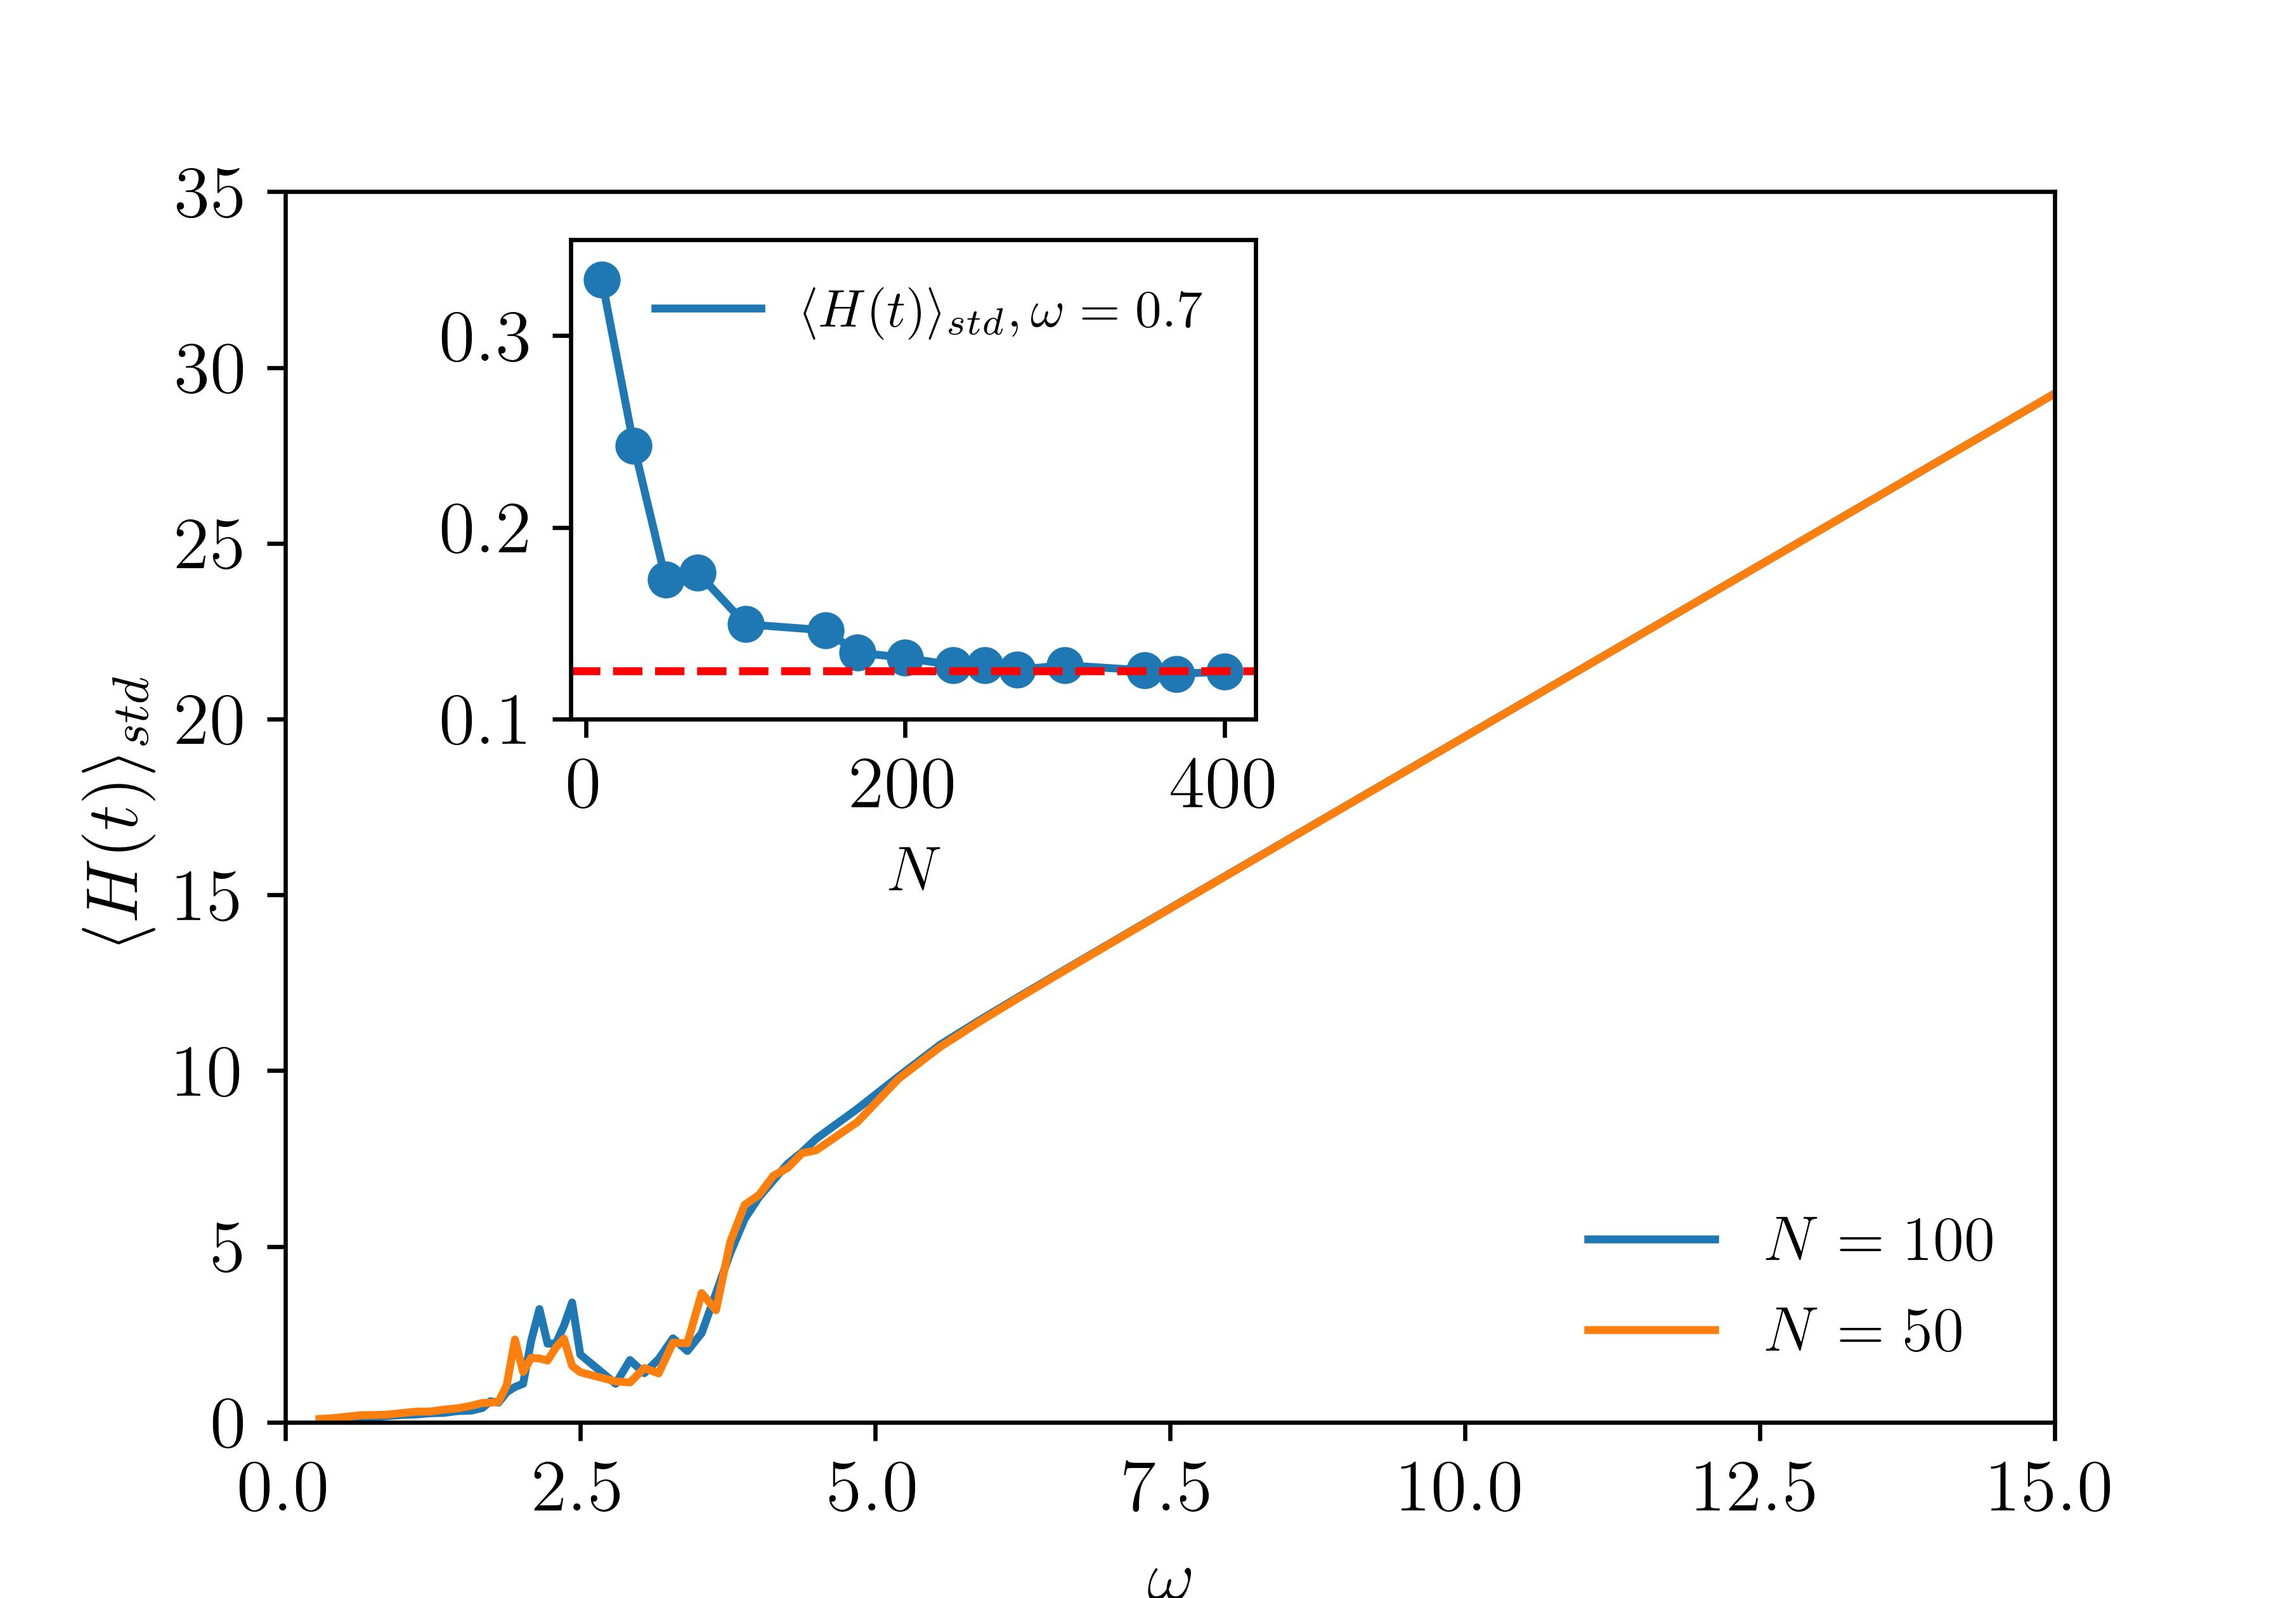
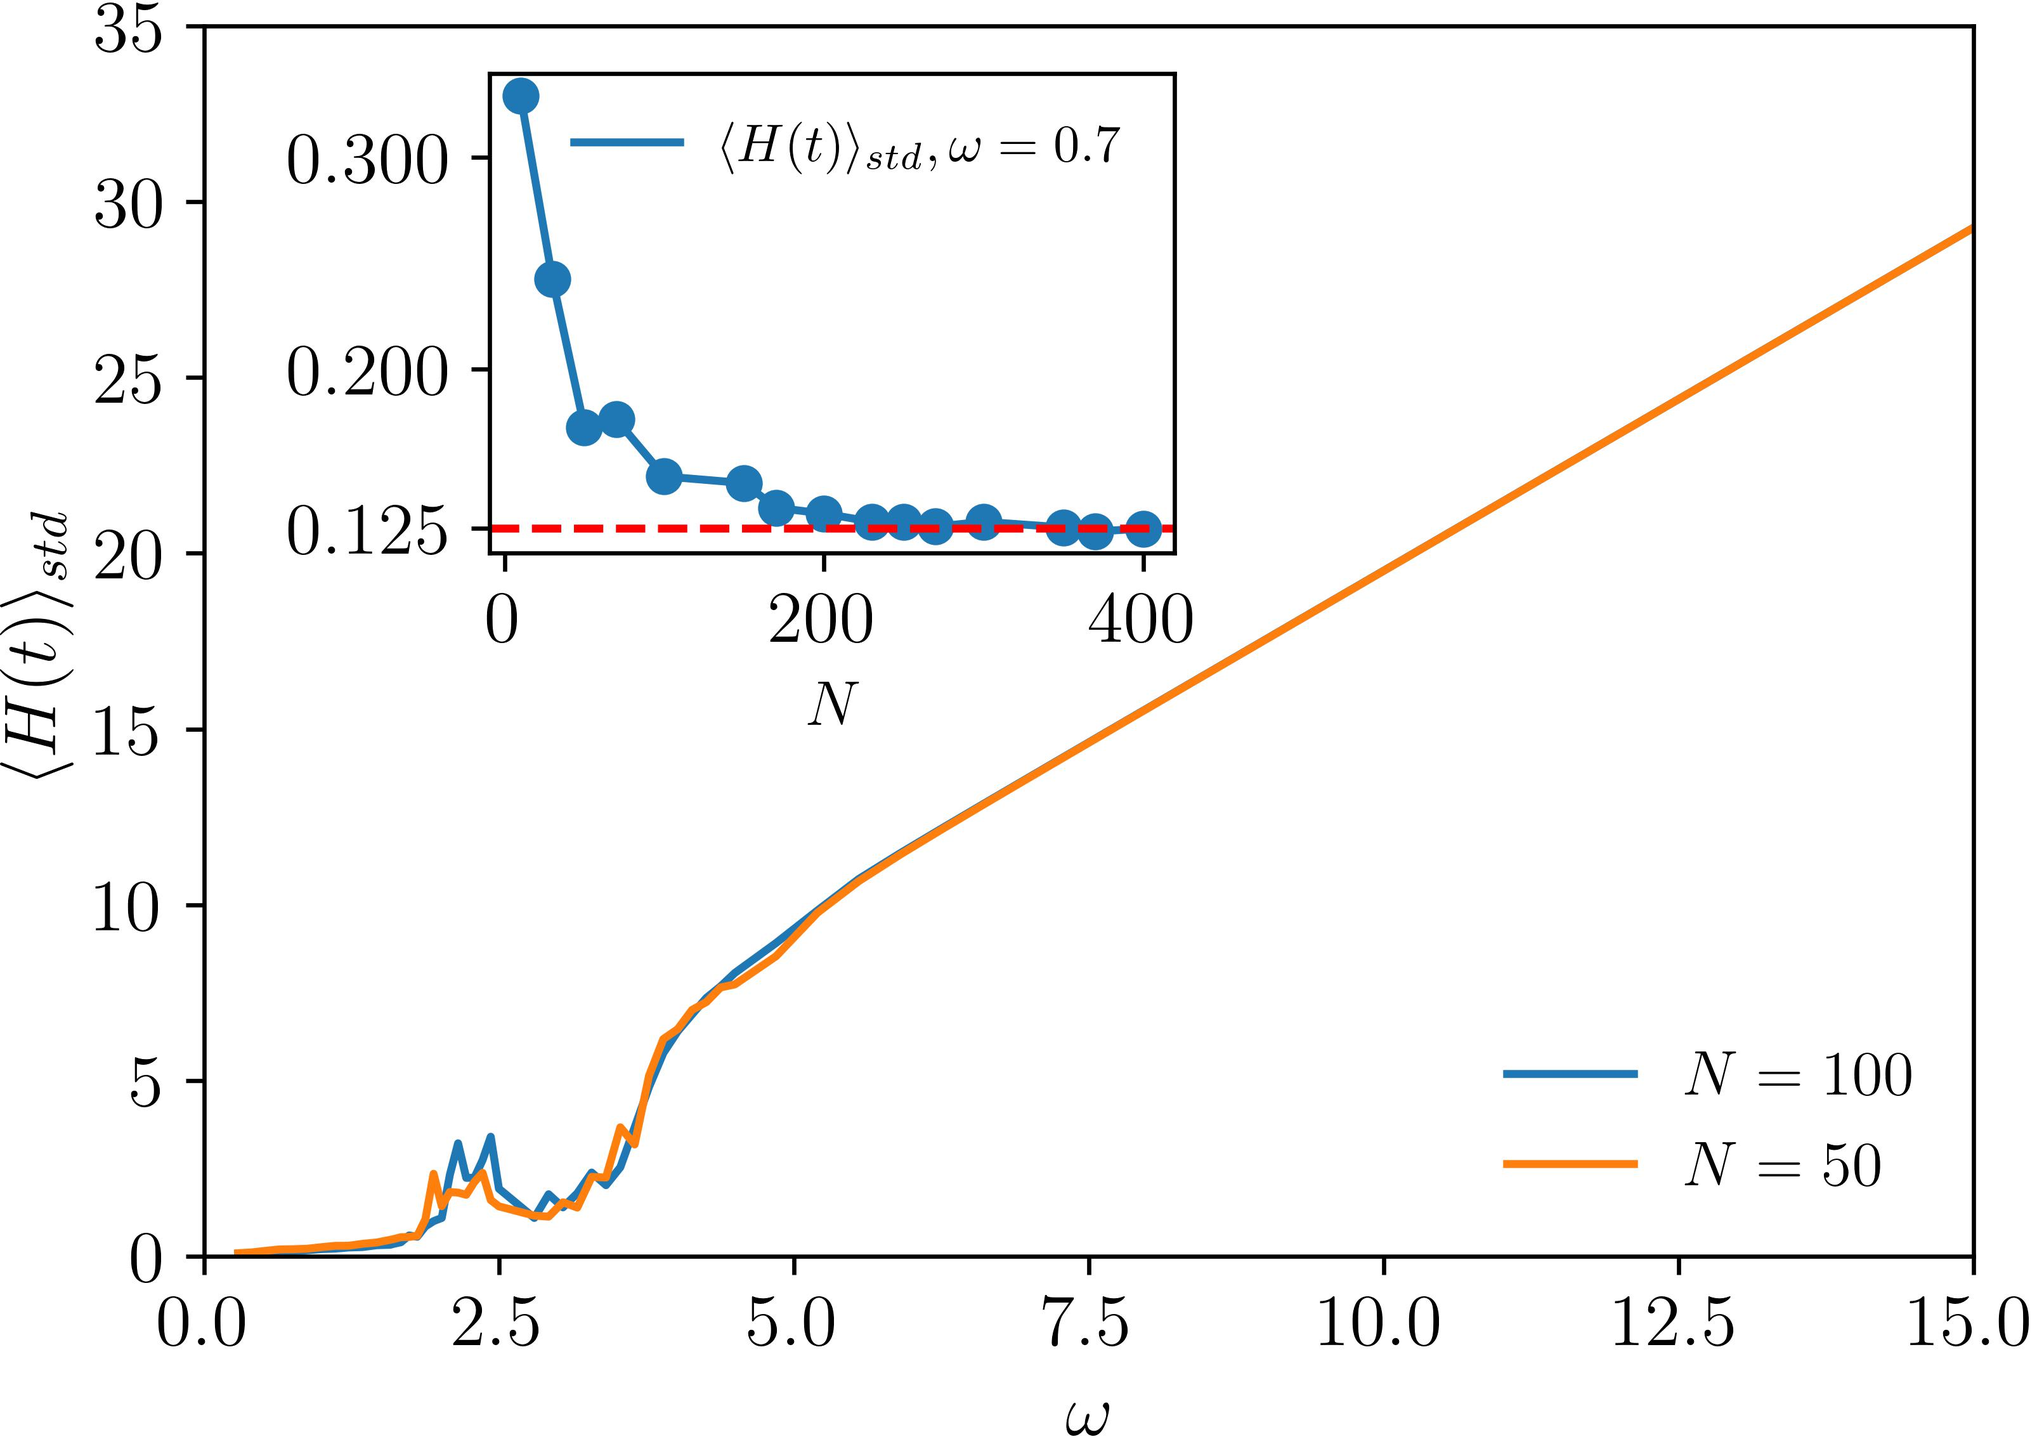
working

diff --git a/Long_Range_LMG_Manuscript/main.tex b/Long_Range_LMG_Manuscript/main.tex
@@ -26,7 +26,9 @@ showkeys,
 \usepackage[sort&compress]{natbib}
 \usepackage{hyperref}
 
-
+\usepackage{color}
+\newcommand{\blue}[1]{\textcolor{blue}{#1}}
+\usepackage{soul}
 
 
 \begin{document}
@@ -164,7 +166,19 @@ In the frequency regime  $\omega \gg f_k$, the long-time average $H^{RWA}\equiv\
 \end{equation}
 It is evident that by manipulating the drive parameters, specifically the amplitude denoted by $h$ and the frequency denoted by $\omega$, in a manner such that $\eta$ is positioned on a root of $J_0(\eta)$, the fermion number can be conserved to a significant extent at this particular resonance. Consequently, it is feasible to exercise direct control over $H^{RWA}$, resulting in a comprehensive suppression of the dynamics of otherwise responsive observables. 
 
-This phenomenon is highly general in nature, and can be readily adapted to non-integrable systems. In such cases, freezing has the additional effect of inducing DMBL, suppressing thermalization to infinite temperatures. Numerical quantification of localization of a specific (quasi) stationary state in a physically significant representation can be achieved through the computation of the \emph{Inverse Participation Ratio} (IPR).  {The IPR is generally defined as the formal sum over the square of the local density in a physically meaningful space.}~\cite{mukherjee_modulation-assisted_2015,lin_many-body_2018,murphy_generalized_2011, torres-herrera_self-averaging_2020} {In the single particle case,  the IPR, } for a state $\ket{\psi}$ can be written as
+This phenomenon is \blue{fairly} general in nature, and can be readily adapted to \blue{some} non-integrable systems \blue{particularly after addition of integrability fields or in the presence of long range interactions. For instance, if we apply integrability field,} 
+\begin{equation}
+\hat{\mathcal{H}}(t) =\frac{1}{2}\left[\sum_{i} J \hat{\sigma}_{i}^{x} \hat{\sigma}_{i+1}^{x}+h \cos (\omega t) \sum_{i} \hat{\sigma}_{i}^{z}+\sum_{i} \hat{\sigma}_{i}^{x}\right]
+\label{eq:tfim_sx}
+\end{equation}	
+RWA reduces Eq.\eqref{eq:tfim_sx} to,
+\begin{multline}
+	\hat{\mathcal{H}}_{_{TFIM+S_{x}}}^{R W A}=\frac{J}{2} \mathcal{J}_0\left(\frac{2h}{\omega}\right)\sum_{i}\Bigg[\left\{1+ \mathcal{J}_0\left(\frac{2h}{\omega}\right)\right\} \hat{\sigma}_{i}^{x} \hat{\sigma}_{i+1}^{x}\\ + \hat{\sigma}^y_i\hat{\sigma}^y_{i+1}\left\{1- \mathcal{J}_0\left(\frac{2h}{\omega}\right)\right\} \Bigg]\\ +\mathcal{J}_{0}\left(\frac{h}{\omega}\right) \frac12\sum_i\hat{\sigma}^x_i
+	\label{eq:tfim_sx1}
+\end{multline}
+\blue{If drive parameters $h$ and $\omega$ are controlled such a way that $\left(\frac{2h}{\omega}\right)$ lies at one of the roots of Bessel function, then the first part of Eq.\eqref{eq:tfim_sx1} vanishes yet the second term survives. The second term consists of non interacting spins for which FETH-IPR can be localized along set of  basis vector corresponding to spin-spin interaction. However if we add additional spin-spin interactions, then this phenomenon can not be replicated, as an example in XXZ model.} 
+
+In such \blue{non integrable} cases, freezing has the additional effect of inducing DMBL, suppressing thermalization to infinite temperatures. Numerical quantification of localization of a specific (quasi) stationary state in a physically significant representation can be achieved through the computation of the \emph{Inverse Participation Ratio} (IPR).  {The IPR is generally defined as the formal sum over the square of the local density in a physically meaningful space.}~\cite{mukherjee_modulation-assisted_2015,lin_many-body_2018,murphy_generalized_2011, torres-herrera_self-averaging_2020} {In the single particle case,  the IPR, } for a state $\ket{\psi}$ can be written as
 \begin{equation*}
 	\phi_{IPR}\equiv \int \mathrm{d}\mathbf{x}\;\vert\ip{\mathbf{x}}{\psi}\vert^4.
 \end{equation*}
@@ -333,14 +347,14 @@ To demonstrate this, we investigate the IPR of the  Floquet mode with smallest q
 for numerous frequencies and system sizes, along with the associated drive amplitude $h$ keeping the system at a localization point. The results are shown in fig~\ref{fig:phase_crossover}. In the low-frequency range $\omega \in \left[1.0, 9.0\right]$, the IPR exhibits values well below unity.   {Moreover, as can be seen in the bottom panel of the same figure, when the dynamics is simulated for smaller} $\omega$s, {the fall of} $\phi_{IPR}(N)$ {asymptotically approaches one that characterizes a fully thermal state, where} $\phi_{IPR}(N)\sim 1/N$ {in the TSS. } In the limit  $N\rightarrow\infty$, the inverse participation ratio (IPR) tends towards zero, indicating a fully de-localized state.  {Contrast this with the IPR plots shown in the bottom left panel of fig}~\ref{fig:ipr:isinglowfrk} {for the integrable TFIM}.  {The top panel of fig.}~\ref{fig:phase_crossover} {also reveals} a gradual increase {in the unity} {towards unity} of IPR over a certain frequency range, specifically at $\omega \approx 5$. In addition, the rise does not cross with those for different values of $N$, suggesting the onset of a phase crossover~\cite{sierant_2023, sachdev_quantum_2011}. As the size of the system increases, the crossover region becomes smoother, rather than sharper.
 \begin{figure}[t!]
 	\centering
-	\includegraphics[width =8.5cm]{phase_crossover_LMG.jpeg}
+	\includegraphics[width =8.5cm]{phase_crossover_LMG1.jpeg}
 	\caption{{In the top panel, the IPR of the lowest quasienergy Floquet state is plotted as a function of} $\omega$ {for different} $N$s,{ with amplitude $h$ adjusted to ensure that} $J_0(\eta)=0$ {always. The smooth rise in IPR defines a phase crossover (top panel) between a fully thermal phase to a fully localized phase. The bottom panel plots the IPR versus} $N$ {for small} $\omega$s, {also with} $h$ {adjusted. The curves asymptotically approach the dependency} $\phi_{IPR}\sim 1/N${, indicating thermalization at low-}$\omega$.}
 	\label{fig:phase_crossover}
 \end{figure}
 \begin{figure}[!ht]
 \centering
 \includegraphics[width = 9.cm]{hbar_avg_std.jpeg}
-\caption{The standard deviation of the heating rate, denoted by $\expval{H}_{std}$, calculated over a span of $t=500 T$ for two system sizes. Here, $h$ is varied to keep $\eta = 4h/\omega$ at the first root of $J_0(\eta)$. A nonsingular rise has been identified at $\omega \approx 4.0$. $\expval{H}_{std}$ exhibits a diminutive magnitude below that value of $\omega$, while a linear rise is observed at higher frequencies, consistent with freezing. A vanishingly small standard deviation for $\omega \ll 4.0$ indicates the presence of a thermal region, whereas a larger finite standard deviation suggests the existence of athermal behaviour. The small peaks observed at $\omega\in [2, 4)$ are finite-size effects that disappear in the thermodynamic limit.}
+\caption{The standard deviation of the heating rate, denoted by $\expval{H}_{std}$, calculated over a span of $t=500 T$ for two system sizes. Here, $h$ is varied to keep $\eta = 4h/\omega$ at the first root of $J_0(\eta)$. A nonsingular rise has been identified at $\omega \approx 4.0$. $\expval{H}_{std}$ exhibits a diminutive magnitude below that value of $\omega$, while a linear rise is observed at higher frequencies, consistent with freezing. A small standard deviation \blue{(= 0.125)} for $\omega \ll 4.0$ indicates the presence of a thermal region, whereas a larger finite standard deviation suggests the existence of athermal behaviour. The small peaks observed at $\omega\in [2, 4)$ are finite-size effects that disappear in the thermodynamic limit. \blue{In the inset, $\expval{H}_{std}$ is studied at low frequency ($\omega=0.7$) for a set of system sizes and at the thermodynamic limit, $\expval{H}_{std} = 0.125$ is found to corroborate}.}
 \label{fig:havg_std}
 \end{figure}
 

diff --git a/dmbl_for_referee_etc/author_responses/BH14505_dmbl.tex b/dmbl_for_referee_etc/author_responses/BH14505_dmbl.tex
@@ -17,6 +17,8 @@
 \usepackage{physics}
 \usepackage{bbm}
 
+
+
 \usepackage[absolute,overlay]{textpos}
 
 %Macros for mathematical notations
@@ -84,16 +86,16 @@ The nearest neighbour Ising model along with additional $\sigma^x$ term in the H
 The unitary evolution operator $\displaystyle \hat{U}(t)$ is, $\hat{U}(t)=\prod_{i} \exp \left(-i \frac{h}{2 \omega} \sin (\omega t) \hat{\sigma}_{i}^{z}\right)$. Now the Hamiltonian in rotating frame,
 
 \begin{align}
-	\tilde{\mathcal{H}}(t)= & \frac{1}{2} \exp \left(i \frac{h}{2 \omega} \sin (\omega t) \sum_{i} \hat{\sigma}_{i}^{z}\right)\left(\sum_{i} J \hat{\sigma}_{i}^{x} \hat{\sigma}_{i+1}^{x}+\sum_{i} \hat{\sigma}_{i}^{x}\right) \exp \left(-i \frac{h}{2 \omega} \sin (\omega t) \hat{\sigma}_{i}^{z}\right) \nonumber\\
-	= & \underbrace{\frac{1}{2} \exp \left(i \frac{h}{2 \omega} \sin (\omega t) \sum_{i} \hat{\sigma}_{i}^{z}\right)\left(\sum_{i} J \hat{\sigma}_{i}^{x} \hat{\sigma}_{i+1}^{x}\right) \exp \left(-i \frac{h}{2 \omega} \sin (\omega t) \hat{\sigma}_{i}^{z}\right)}_{\mathrm{A}} \nonumber\\
-	& +\underbrace{\frac{1}{2} \exp \left(i \frac{h}{2 \omega} \sin (\omega t) \sum_{i} \hat{\sigma}_{i}^{z}\right)\left(\sum_{i} \hat{\sigma}_{i}^{x}\right) \exp \left(-i \frac{h}{2 \omega} \sin (\omega t) \hat{\sigma}_{i}^{z}\right)}_{\mathrm{B}}
+	\tilde{\mathcal{H}}(t)= & \frac{1}{2} \exp \left(i \frac{h}{2 \omega} \sin (\omega t) \sum_{i} \hat{\sigma}_{i}^{z}\right)\left(\sum_{i} J \hat{\sigma}_{i}^{x} \hat{\sigma}_{i+1}^{x}+\sum_{i} \hat{\sigma}_{i}^{x}\right) \exp \left(-i \frac{h}{2 \omega} \sin (\omega t) \sum_i\hat{\sigma}_{i}^{z}\right) \nonumber\\
+	= & \underbrace{\frac{1}{2} \exp \left(i \frac{h}{2 \omega} \sin (\omega t) \sum_{i} \hat{\sigma}_{i}^{z}\right)\left(\sum_{i} J \hat{\sigma}_{i}^{x} \hat{\sigma}_{i+1}^{x}\right) \exp \left(-i \frac{h}{2 \omega} \sin (\omega t) \sum_i\hat{\sigma}_{i}^{z}\right)}_{\mathrm{A}} \nonumber\\
+	& +\underbrace{\frac{1}{2} \exp \left(i \frac{h}{2 \omega} \sin (\omega t) \sum_{i} \hat{\sigma}_{i}^{z}\right)\left(\sum_{i} \hat{\sigma}_{i}^{x}\right) \exp \left(-i \frac{h}{2 \omega} \sin (\omega t) \sum_i\hat{\sigma}_{i}^{z}\right)}_{\mathrm{B}}
 \end{align}
 
 We consider $\eta=\frac{h}{2 \omega} \sin (\omega t)$.
 
 
 \begin{align}
-	A & =\frac{1}{2} \exp \left(i \frac{h}{2 \omega} \sin (\omega t) \sum_{i} \hat{\sigma}_{i}^{z}\right)\left(\sum_{i} J \hat{\sigma}_{i}^{x} \hat{\sigma}_{i+1}^{x}\right) \exp \left(-i \frac{h}{2 \omega} \sin (\omega t) \hat{\sigma}_{i}^{z}\right) \nonumber\\
+	A & =\frac{1}{2} \exp \left(i \frac{h}{2 \omega} \sin (\omega t) \sum_{i} \hat{\sigma}_{i}^{z}\right)\left(\sum_{i} J \hat{\sigma}_{i}^{x} \hat{\sigma}_{i+1}^{x}\right) \exp \left(-i \frac{h}{2 \omega} \sin (\omega t) \sum_i\hat{\sigma}_{i}^{z}\right) \nonumber\\
 	&= \prod_i \exp\left(i\eta\hat{\sigma}^z_i\right)\left(\sum_{i} J \hat{\sigma}_{i}^{x} \hat{\sigma}_{i+1}^{x}\right)\exp\left(-i\eta\hat{\sigma}^z_i\right)\nonumber\\
 	&= \sum_i J \exp(i\eta\hat{\sigma}^z_i)\exp(i\eta\hat{\sigma}^z_{i+1})\left( \hat{\sigma}_{i}^{x} \hat{\sigma}_{i+1}^{x}\right)\exp(-i\eta\hat{\sigma}^z_i)\exp(-i\eta\hat{\sigma}^z_{i+1})\nonumber\\
 	&= J\sum_{i} \hat{\sigma}_{i}^{x} \hat{\sigma}_{i+1}^{x}\exp(-2i\eta\hat{\sigma}^z_i)\exp(-2i\eta\hat{\sigma}^z_{i+1})
@@ -209,20 +211,31 @@ when $N\rightarrow \infty$, we get $\displaystyle \sigma_\infty^2 \simeq \frac{J
 For convenience we consider, $J=1$, then, $\sigma_\infty^2 = 0.125$.
 
 The numerical result in Fig. support 
-\begin{textblock*}{7cm}(13cm,14cm) % Adjust the position (2cm,2cm) as needed
-	\includegraphics[width=7cm]{hbar_avg_std_w0.7.jpg}
+\begin{textblock*}{6.5cm}(13cm,14.5cm) % Adjust the position (2cm,2cm) as needed
+	\includegraphics[width=6.5cm]{hbar_avg_std_w0.7.jpg}
 	\caption{Variation of $\expval{H(t)}_{std}$ with system size(N) at small frequency $\omega=0.7$. $\expval{H(t)}_{std}$ is found to decrease as N increases and at thermodynamic limit it reaches 0.125.}
 	\label{fig:std_N}
 \end{textblock*}
 }
 
 
-\vskip 1.5cm
+\vskip 2cm
 \item The referee says,``\textit{In the conclusion, it is useful to comment on whether this method could be adapted (related to my point 2) to other generic models (say
 	XXZ models). }"\\
 
-\response{
+\response{Generic Heisenberg model
+	\begin{equation*}
+		H = \frac12 \left( \sum_{i=1} J^x \hat{\sigma}^x_i \hat{\sigma}^x_{i+1} +J^y  \hat{\sigma}^y_i \hat{\sigma}^y_{i+1} + J^z  \hat{\sigma}^z_i \hat{\sigma}^z_{i+1} + h  \hat{\sigma}^z_i\right).
+	\end{equation*}
+	If $J^x= J^y \neq J^z=\Delta$, then it is called a XXZ model.
+	
+The unitary evolution operator $\displaystyle \hat{U}(t)$ is, $\hat{U}(t)=\prod_{i} \exp \left(-i \frac{h}{2 \omega} \sin (\omega t) \hat{\sigma}_{i}^{z}\right)$. Now the Hamiltonian in rotating frame,
 
+\begin{align}
+	\tilde{\mathcal{H}}(t)_{_{XXZ}}= & \frac{1}{2} \exp \left(i \frac{h}{2 \omega} \sin (\omega t) \sum_{i} \hat{\sigma}_{i}^{z}\right)\left(\sum_{i} 2J^x \hat{\sigma}^x_i \hat{\sigma}^x_{i+1} + \Delta  \hat{\sigma}^z_i \hat{\sigma}^z_{i+1}\right) \exp \left(-i \frac{h}{2 \omega} \sin (\omega t) \sum_i\hat{\sigma}_{i}^{z}\right) \nonumber\\
+	= & \underbrace{\exp \left(i \frac{h}{2 \omega} \sin (\omega t) \sum_{i} \hat{\sigma}_{i}^{z}\right)\left(\sum_{i} J \hat{\sigma}_{i}^{x} \hat{\sigma}_{i+1}^{x}\right) \exp \left(-i \frac{h}{2 \omega} \sin (\omega t) \sum_i\hat{\sigma}_{i}^{z}\right)}_{\mathrm{A}} \nonumber\\
+	& +\underbrace{\frac{\Delta}{2} \exp \left(i \frac{h}{2 \omega} \sin (\omega t) \sum_{i} \hat{\sigma}_{i}^{z}\right)\left(\sum_{i}  \hat{\sigma}_{i}^{z} \hat{\sigma}_{i+1}^{z}\right) \exp \left(-i \frac{h}{2 \omega} \sin (\omega t) \sum_i\hat{\sigma}_{i}^{z}\right)}_{\mathrm{B}}
+\end{align}
 }
 \vskip 1cm 
 \noindent \textbf{Summary of important changes to the  manuscript}
